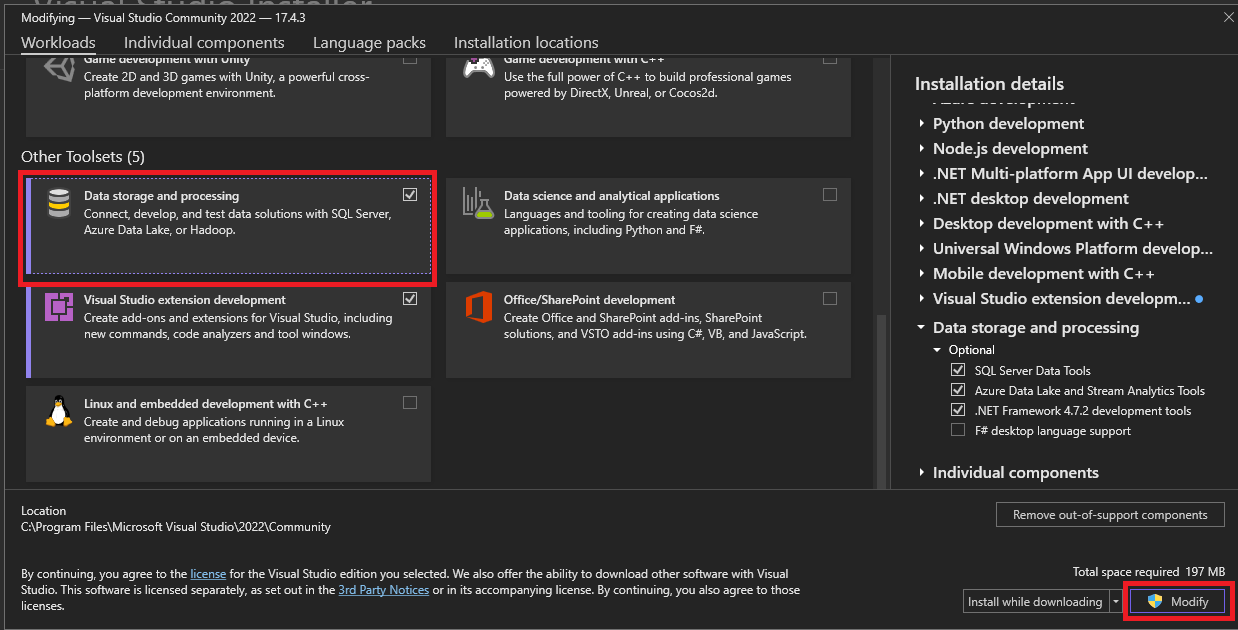
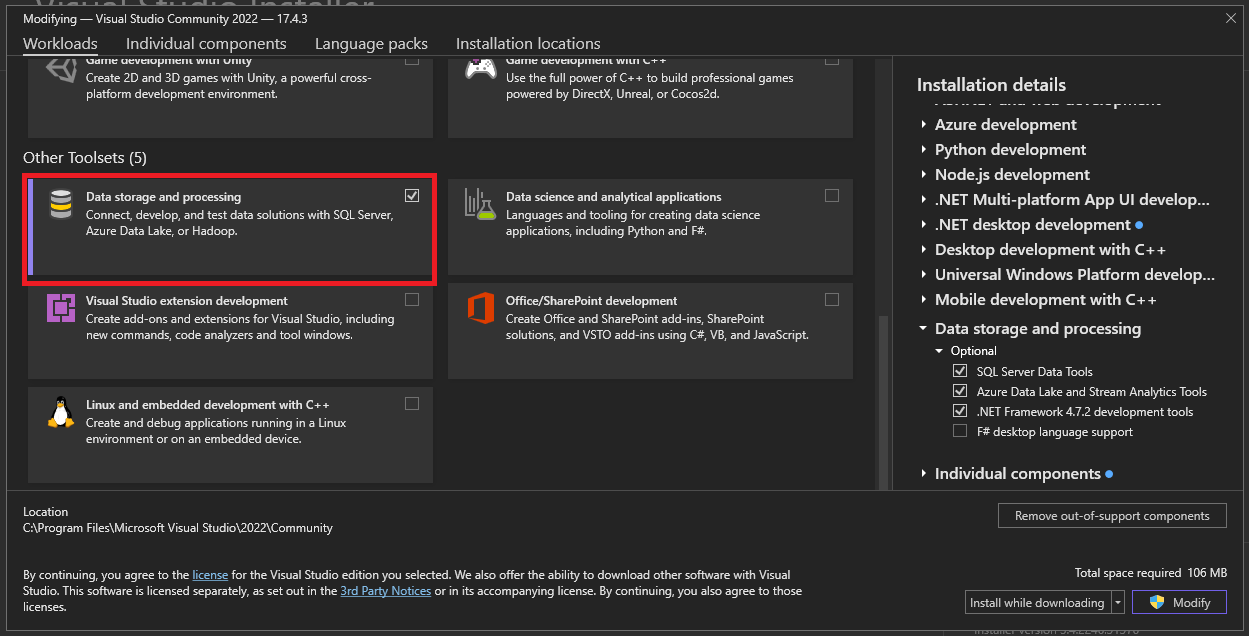
update

diff --git a/README.md b/README.md
@@ -51,10 +51,16 @@
 
   ![Modify Visual Studio](./img//1.2.png)
 
-- [ ] Check ASP.NET web development, Data storage processing and click Modify
+- [ ] Check ASP.NET web development, Data storage processing
 
   ![ASP.NET Web Development](./img/1.3.png)
   ![Data Storage Processing](./img/1.4.png)
+
+- [ ] Go to Individual Components and check ".NET Framework 4.7.2 SDK" and ".NET Framework 4.7.2 targeting pack" then click modify 
+
+  ![Go to Individual Components and check ".NET Framework 4.7.2 SDK" and ".NET Framework 4.7.2 targeting pack"](./img/1.5.png)
+
+- [ ] :busstop: Await the installation's completion. 
 
 
 ## :test_tube: II. Creating your first ASP.NET MVC solution
@@ -64,6 +70,14 @@
 
   ![Open Visual Studio Community 2022](./img/2.1.png)
   ![Click "Create a new project"](./img/2.2.png)
+
+- [ ] Select ASP.NET Web Application (.Net Framework) and click next
+
+  ![Select ASP.NET Web Application (.Net Framework)](./img/2.3.png)
+
+- [ ] Create a name for your solution and click create
+
+  ![Create a name for your solution and click create](./img/2.4.png)
 
 # :clock2: Second Session
 
